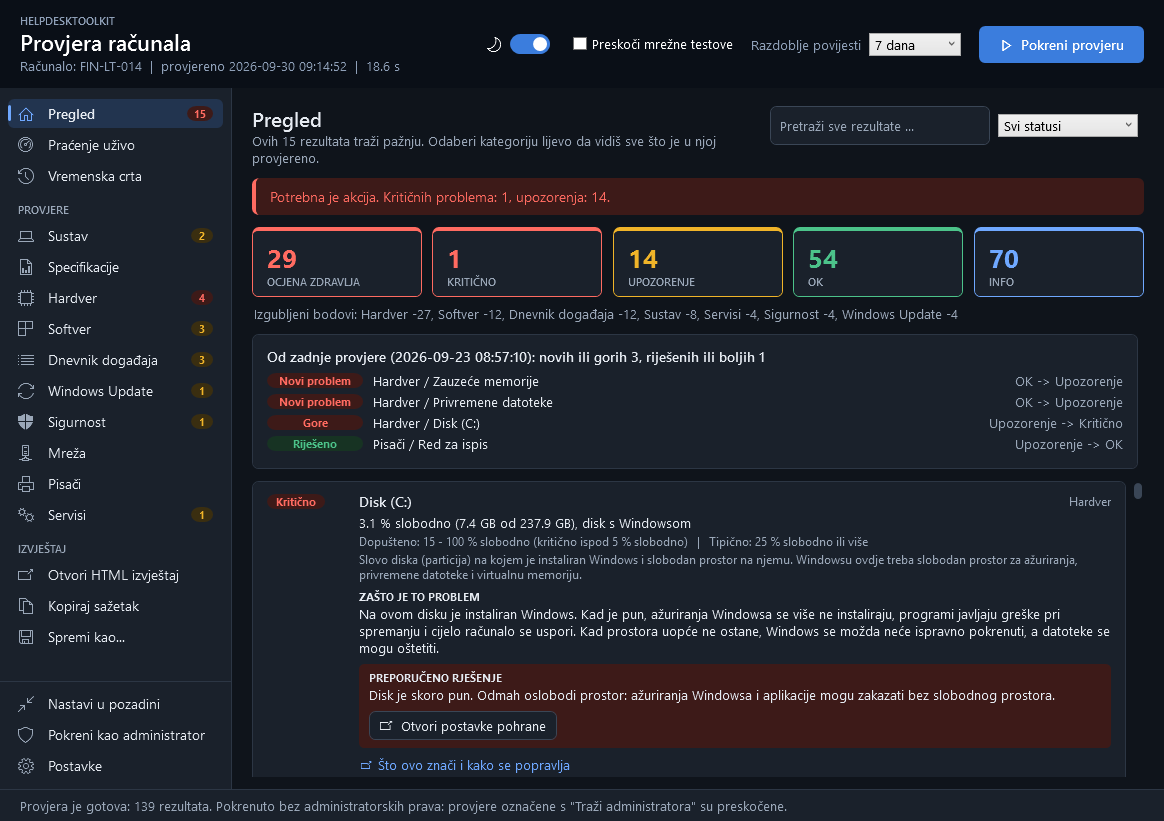
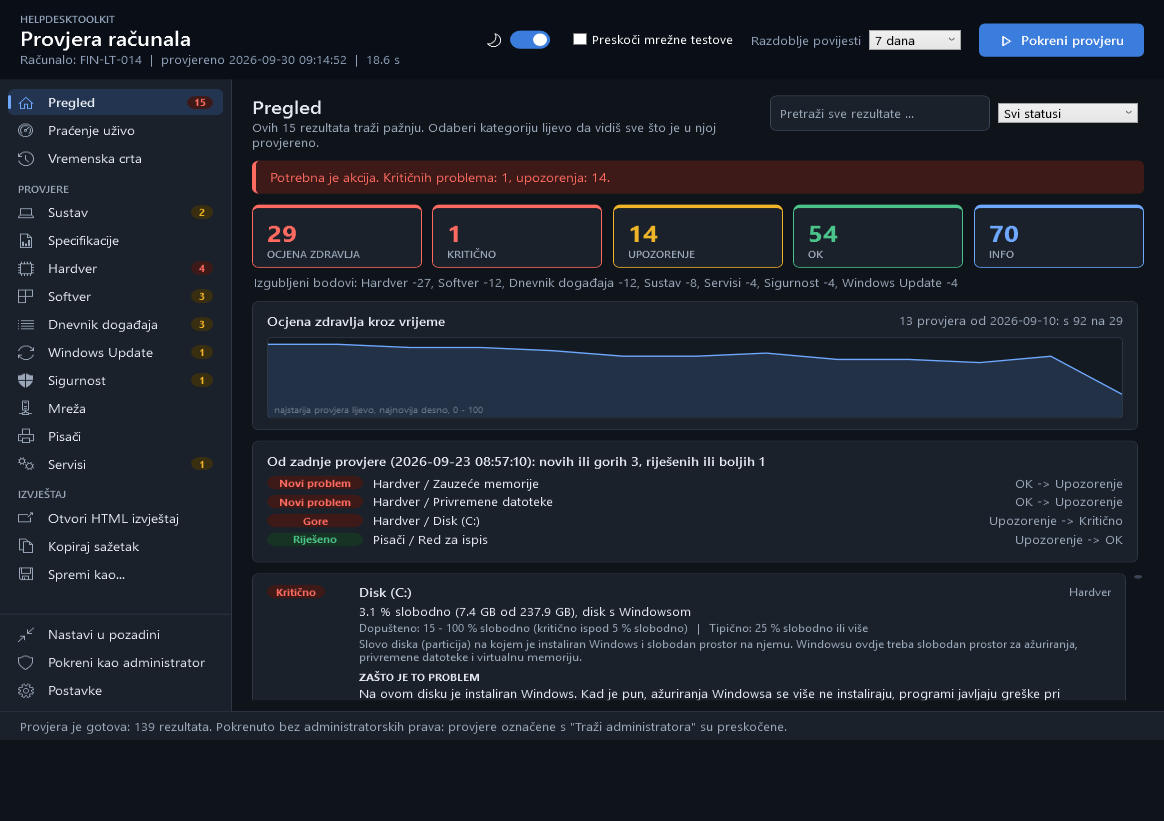
docs: describe the memory design, the score over time, the log and the leftover entries; renew the screenshots

diff --git a/README.hr.md b/README.hr.md
@@ -30,7 +30,7 @@ engleskom, pa su i nazivi u ovom dokumentu navedeni onako kako pišu na englesko
 | System | Ime računala, verzija i build Windowsa, ima li ta verzija još Microsoftovu podršku, datum instalacije, proizvođač i model, domena ili radna grupa, prijavljeni korisnik, vremenska zona, uptime, indeks stabilnosti, aktivacija Windowsa, programi koji se pokreću sa sustavom, zakazani zadaci koji nisu dio Windowsa, plan napajanja, Fast Startup, trajanje zadnjeg pokretanja\*, veličina korisničkih profila\*, spremnost za Windows 11 (na Windowsu 10, sa svakim zahtjevom posebno), zadnji rezultat System File Checkera, što je Windows okrivio za sporo pokretanje\* |
 | Specifications | Procesor s veličinom cache memorije i stanjem virtualizacije, raspored memorije i slobodni utori, svaki memorijski modul (utor, brzina, proizvođač, kataloški broj), grafičke kartice s memorijom i datumom drivera, monitori, fizički diskovi s verzijom firmwarea, optički pogoni, audio uređaji, tipkovnice i pokazivački uređaji, matična ploča, BIOS/UEFI, serijski broj, savjet za stari BIOS, gdje se provjerava jamstvo |
 | Hardware | Opterećenje CPU-a, zauzeće RAM-a i najveći potrošači memorije, zdravlje svakog fizičkog diska, slobodan prostor po disku (disk na kojem je Windows je označen, a pun podatkovni disk dobiva drugačiji savjet nego pun disk s Windowsom), najveće mape na disku koji se puni, prostor koji se može osloboditi (privremene datoteke, Downloads, koš za smeće), datoteka hibernacije, page file, uređaji bez ispravnog drivera, nepotpisani driveri, stari driveri, napunjenost i zdravlje baterije (preostali kapacitet u odnosu na novu bateriju), detalji diska (temperatura, istrošenost, sati rada, neispravljene greške)\*, diskovi označeni za provjeru\*, privremene datoteke Windowsa\*, rezultat zadnjeg testa memorije |
-| Software | Instalirani programi s verzijama, nedavno instalirani programi, rušenja aplikacija po programu, proširenja preglednika, zadani preglednik, programi koji više ne dobivaju sigurnosna ažuriranja, programi za koje postoji novija verzija (pita se winget), Microsoft Office s kanalom ažuriranja, veličina Outlook datoteka s poštom |
+| Software | Instalirani programi s verzijama, nedavno instalirani programi, rušenja aplikacija po programu, proširenja preglednika, zadani preglednik, programi koji više ne dobivaju sigurnosna ažuriranja, programi koji su još na popisu iako im je program za deinstalaciju nestao, programi za koje postoji novija verzija (pita se winget), Microsoft Office s kanalom ažuriranja, veličina Outlook datoteka s poštom |
 | Event Log | Neočekivana gašenja, plavi ekrani, greške diska, greške hardvera (WHEA), kritični događaji i greške u System i Application logu u zadnjih N dana, najčešći izvori |
 | Windows Update | Zadnje instalirano ažuriranje, ažuriranja koja čekaju instalaciju, ažuriranja koja se nisu uspjela instalirati, čeka li se restart, jesu li ažuriranja pauzirana |
 | Security | Zaštita u stvarnom vremenu, starost definicija, zaštita od neovlaštenih izmjena, zadnje skeniranje i povijest prijetnji Microsoft Defendera, firewall profili, User Account Control, Remote Desktop, vrsta računa, članovi grupe Administrators, automatska prijava, lokalni računi i račun Guest, dijeljene mape, portovi otvoreni prema mreži i programi koji na njima slušaju, sigurnosne kopije (File History, OneDrive, System Restore), Secure Boot, TPM\*, BitLocker na svakom disku\*, neuspjele prijave\*, zaključani računi\*, točke vraćanja\*, SmartScreen, integritet memorije (Core isolation), LSA zaštita, SMB 1.0, automatsko zaključavanje zaslona, programi koji su koristili kameru, mikrofon i lokaciju, USB memorije koje su bile spojene |
@@ -104,6 +104,8 @@ povijesti) također se pamte do sljedećeg pokretanja.
 - **Health score** od 0 do 100 sažima provjeru u jedan broj: svaki rezultat Critical
   oduzima 15 bodova, a svaki Warning 4. Redak ispod pločica kaže kamo su bodovi otišli
   ("Points lost: Security -19, Software -8"), pa se broj može pročitati.
+- **Health score over time** crta ocjenu zadnjih provjera kao liniju, pa se na prvi
+  pogled vidi ide li računalu na bolje ili na gore.
 - **Since the last check** pokazuje što je novo, gore, bolje ili riješeno u odnosu na
   prethodnu provjeru istog računala. Aplikacija za to čuva zadnjih 30 izvještaja.
 - **Timeline** prikazuje što se na računalu događalo zadnjih tjedana, grupirano po
@@ -149,6 +151,10 @@ stranica, pretraga i mjesto do kojeg si listao ostaju kakvi jesu. Ponovljena pro
 traje samo nekoliko sekundi: jedino što se sporo mjeri, a sporo se i mijenja, veličine
 najvećih mapa, mjeri se ponovno svakih pola sata umjesto svaki put.
 
+Gdje provjera košta više nego što donosi, ponavlja se rjeđe: najviše svakih 30 minuta
+dok je prozor skriven pokraj sata, svakih 15 na bateriji, a svakih 60 kad vrijedi
+oboje. Sporija postavka ostaje kakva jest, a **Run check** uvijek provjerava odmah.
+
 Problem kojeg prije nije bilo najavljuje se u traci na vrhu prozora, a dok prozor nije
 u prvom planu i Windows obavijesti. Klik vodi ravno na rezultat, koji je uokviren da ga
 je lako naći. Obavijest nestaje kad je zatvoriš ili kad problema više nema.
@@ -192,8 +198,16 @@ Dvije opcije na stranici **Settings**, obje isključene na početku:
   Kad opciju isključiš ili aplikaciju deinstaliraš, prečac se uklanja.
 
 Istovremeno radi samo jedna kopija: pokretanje aplikacije dok je pokraj sata vraća
-njezin prozor umjesto da otvori drugi. Kopija u pozadini treba nekoliko stotina
-megabajta memorije, kao i otvoren prozor.
+njezin prozor umjesto da otvori drugi.
+
+Aplikacija je napravljena da može ostati otvorena, a da ne opterećuje računalo. Svaka
+provjera radi u vlastitom kratkotrajnom procesu, pa se njezina memorija vraća
+Windowsima čim završi. Otvoren prozor troši oko 200 MB (oko 250 MB dok radi Live
+monitor); skriven pokraj sata vraća ono što mu ne treba i ostaje na oko 15 do 35 MB
+radne memorije. Kako, piše pod [Memorija](#memorija).
+
+Ako nešto u prozoru pođe po zlu, prozor ostaje otvoren: greška se zapiše u `app.log`
+u mapi aplikacije (**Settings > About > Open the folder**), a statusni redak to kaže.
 
 ### Jezik i tema
 
@@ -343,6 +357,8 @@ Ostali formati:
 
 Instalacijski program nije digitalno potpisan, pa Windows SmartScreen pri prvom
 pokretanju prikaže "Windows protected your PC". Odaberi **More info** pa **Run anyway**.
+Poruka kaže samo da Windows još ne poznaje izdavača datoteke (certifikat za
+potpisivanje plaća se svake godine); o tome što datoteka radi ne govori ništa.
 Preuzetu datoteku možeš provjeriti prema `SHA256SUMS.txt` iz istog izdanja:
 
 ```powershell
@@ -575,7 +591,7 @@ GitHub Actions pokreće istu skriptu na Windows PowerShellu 5.1 i PowerShellu 7 
 
 Što aplikaciju čini brzom i gdje gledati kad nije:
 
-- Modul ima oko 190 datoteka s po jednom funkcijom. Čitaju se u jedan tekst i učitavaju
+- Modul ima oko 230 datoteka s po jednom funkcijom. Čitaju se u jedan tekst i učitavaju
   kao jedan blok, što traje trećinu vremena učitavanja jedne po jedne. S varijablom
   okruženja `HELPDESKTOOLKIT_LOAD_FILES` postavljenom na `1` opet se učitavaju datoteku
   po datoteku, pa greška navodi svoju datoteku i redak; testovi rade upravo tako.
@@ -589,6 +605,34 @@ GitHub Actions pokreće istu skriptu na Windows PowerShellu 5.1 i PowerShellu 7 
   izmjenjivati, pa osam niti nije bilo brže od jedne dok petlja nije tako napisana.
 - Live monitor traži Windowsove klase s podacima o performansama sve odjednom
   (`Get-CimInstanceBatch`): jedno mjerenje traje oko pola sekunde umjesto dvije.
+
+### Memorija
+
+Što prozor drži malim, izmjereno na razvojnom računalu s Windows PowerShellom 5.1:
+
+| | Prije | Sada |
+|---|---|---|
+| Prozor otvoren, prva provjera gotova | oko 470 MB | oko 215 MB |
+| Nakon više ponovljenih provjera, Live monitor otvoren | 500 do 650 MB | oko 250 MB |
+| Skriven pokraj sata | kao gore | 15 do 35 MB radnog skupa |
+
+- Provjera učita desetak Windowsovih modula, a PowerShell tu memoriju ne vraća dok
+  proces živi. Zato svaka provjera radi u vlastitom procesu
+  (`HelpdeskToolkit\Invoke-CheckWorker.ps1`), koji završava s provjerom. Pokreće ga
+  runspace prozora, koji retke što ih proces ispisuje pretvara u zapise o napretku i
+  čita izvještaj koji proces ostavi kao JSON (`Invoke-WindowCheck`,
+  `Receive-WindowCheck`).
+- Veličine mapa koje ponovljena provjera smije ponovno upotrijebiti čuvaju se u
+  datoteci u mapi aplikacije, jer procesa koji ih je izmjerio više nema
+  (`Get-ProcessCache`).
+- Nakon provjere, i kad se prozor sakrije, memorija koju .NET više ne koristi skuplja
+  se i vraća Windowsima (`Optimize-ProcessMemory`).
+- Skriven prozor odriče se runspacea Live monitora i veza kojima mjeri. Petlji se
+  kaže da završi, a runspace se otpušta kad završi (`Clear-WindowWorker`).
+
+`Write-AppLog` zapisuje što je pošlo po zlu u `app.log` u mapi aplikacije. Svaki timer
+prozora sam hvata svoje greške: timer čiji rukovatelj padne Windows više nikad ne
+poziva, pa bi ostao prozor koji izgleda živ, a više se ne osvježava.
 
 ### Slaganje izdanja
 

diff --git a/README.md b/README.md
@@ -27,7 +27,7 @@ problems it found and what to do about them.
 | System | Computer name, Windows version and build, whether that version is still supported by Microsoft, install date, manufacturer and model, domain or workgroup, signed-in user, time zone, uptime, stability index, Windows activation, startup programs, scheduled tasks that are not part of Windows, power plan, Fast Startup, last startup duration\*, size of the user profiles\*, Windows 11 readiness (on Windows 10, with every requirement), the last System File Checker result, what Windows blamed for a slow startup\* |
 | Specifications | Processor with cache sizes and virtualization state, memory layout and free slots, every memory module (slot, speed, manufacturer, part number), graphics adapters with memory and driver date, displays, physical drives with firmware version, optical drives, audio devices, keyboards and pointing devices, motherboard, BIOS/UEFI, serial number, advice for an old BIOS, where the warranty is looked up |
 | Hardware | CPU load, memory usage and the top memory consumers, health of every physical drive, free space per disk (the drive Windows is installed on is marked, and a full data drive gets other advice than a full Windows drive), the largest folders of a disk that is running full, space that can be freed (temporary files, Downloads, Recycle Bin), hibernation file, page file, devices without a working driver, unsigned drivers, old drivers, battery charge and battery health (capacity left compared to a new battery), drive details (temperature, wear, power-on hours, uncorrected errors)\*, drives flagged for a disk check\*, temporary files of Windows\*, result of the last memory test |
-| Software | Installed programs with versions, recently installed programs, application crashes per program, browser extensions, default browser, programs that no longer get security updates, programs with a newer version (asked from winget), Microsoft Office with its update channel, size of the Outlook mailbox files |
+| Software | Installed programs with versions, recently installed programs, application crashes per program, browser extensions, default browser, programs that no longer get security updates, programs that are still listed although their uninstaller is gone, programs with a newer version (asked from winget), Microsoft Office with its update channel, size of the Outlook mailbox files |
 | Event Log | Unexpected shutdowns, blue screens, disk errors, hardware errors (WHEA), critical events and errors in the System and Application logs for the last N days, top sources |
 | Windows Update | Last installed update, updates waiting to be installed, updates that failed to install, pending restart, paused updates |
 | Security | Microsoft Defender real-time protection, definition age, tamper protection, last scan and threat history, firewall profiles, User Account Control, Remote Desktop, account type, members of the Administrators group, automatic sign-in, local accounts and the Guest account, shared folders, ports open to the network and the programs behind them, backup (File History, OneDrive, System Restore), Secure Boot, TPM\*, BitLocker on every drive\*, failed sign-ins\*, account lockouts\*, restore points\*, SmartScreen, memory integrity (Core isolation), LSA protection, SMB 1.0, automatic screen lock, programs that used the camera, the microphone and the location, USB storage devices that have been connected |
@@ -101,6 +101,8 @@ number of days of history) are remembered for the next start as well.
 - **Health score** from 0 to 100 sums the check up in one number: every Critical
   result takes 15 points off, every Warning 4. The line below the tiles says where the
   points went ("Points lost: Security -19, Software -8"), so the number can be read.
+- **Health score over time** draws the score of the last checks as a line, so it shows
+  at a glance whether the computer is getting better or worse.
 - **Since the last check** shows what is new, worse, better or resolved compared with
   the previous check of the same computer. The application keeps the last 30 reports
   for this.
@@ -151,6 +153,11 @@ are. A repeated check takes only a few seconds: the one thing that is slow to me
 and changes slowly, the sizes of the largest folders, is measured again every half
 hour instead of every time.
 
+Where a check costs more than it brings, it is repeated less often: every 30 minutes
+at most while the window is hidden next to the clock, every 15 on battery, and every 60
+when both apply. A slower setting stays as it is, and **Run check** always checks at
+once.
+
 A problem that was not there before is announced in a bar at the top of the window, and
 with a Windows notification while the window is not in front. A click leads straight to
 the result, which is framed so it is easy to find. A notice disappears when it is
@@ -198,8 +205,17 @@ Two options on the **Settings** page, both off at first:
   shortcut.
 
 Only one copy runs at a time: starting the application while it sits next to the clock
-brings its window back instead of opening a second one. A copy in the background needs
-a few hundred megabytes of memory, like the open window.
+brings its window back instead of opening a second one.
+
+The application is built to stay open without weighing on the computer. Every check
+runs in a short-lived process of its own, so its memory goes back to Windows when it
+is done. The open window uses about 200 MB (about 250 MB with the Live monitor
+running); hidden next to the clock it hands back what it does not need and stays at
+about 15 to 35 MB of working memory. See [Memory](#memory) for how.
+
+Should something go wrong inside the window, it stays open: the error is written to
+`app.log` in the folder of the application (**Settings > About > Open the folder**),
+and the status line says so.
 
 ### Language and theme
 
@@ -349,8 +365,10 @@ Other formats:
 3. Start **HelpdeskToolkit** from the Start menu.
 
 The installer is not digitally signed, so Windows SmartScreen shows "Windows protected
-your PC" the first time. Choose **More info** and then **Run anyway**. You can verify
-the download against `SHA256SUMS.txt` from the same release:
+your PC" the first time. Choose **More info** and then **Run anyway**. The message
+only says that Windows does not know the publisher of the file yet (a certificate for
+signing costs money every year); it says nothing about what the file does. You can
+verify the download against `SHA256SUMS.txt` from the same release:
 
 ```powershell
 Get-FileHash .\HelpdeskToolkit-Setup-<version>.exe -Algorithm SHA256
@@ -585,7 +603,7 @@ GitHub Actions runs the same script on Windows PowerShell 5.1 and PowerShell 7 f
 
 What keeps the application quick, and where to look when it is not:
 
-- The module has about 190 files with one function each. They are read into one text
+- The module has about 230 files with one function each. They are read into one text
   and loaded as one block, which takes a third of the time of loading them one by
   one. With the environment variable `HELPDESKTOOLKIT_LOAD_FILES` set to `1` they are
   loaded file by file again, so an error names its file and line; the tests do that.
@@ -599,6 +617,35 @@ What keeps the application quick, and where to look when it is not:
   eight threads no faster than one until the loop was written that way.
 - The Live monitor asks for the performance classes of Windows all at once
   (`Get-CimInstanceBatch`): one measurement takes about half a second instead of two.
+
+### Memory
+
+What keeps the window small, measured on the development computer with Windows
+PowerShell 5.1:
+
+| | Before | Now |
+|---|---|---|
+| Window open, first check done | about 470 MB | about 215 MB |
+| After several repeated checks, Live monitor open | 500 to 650 MB | about 250 MB |
+| Hidden next to the clock | as above | 15 to 35 MB working set |
+
+- A check loads a dozen Windows modules, and PowerShell never returns that memory
+  while the process lives. Every check therefore runs in a process of its own
+  (`HelpdeskToolkit\Invoke-CheckWorker.ps1`), which ends with the check. A runspace of
+  the window starts it, turns the lines it writes into progress records and reads the
+  report it leaves as JSON (`Invoke-WindowCheck`, `Receive-WindowCheck`).
+- The folder sizes a repeated check may reuse are kept in a file in the folder of the
+  application, because the process that measured them is gone (`Get-ProcessCache`).
+- After a check, and when the window is hidden, the memory .NET no longer uses is
+  collected and handed back to Windows (`Optimize-ProcessMemory`).
+- A hidden window gives up the runspace of the Live monitor and the connections it
+  measures with. The loop is told to end, and the runspace is released once it has
+  (`Clear-WindowWorker`).
+
+`Write-AppLog` writes what went wrong to `app.log` in the folder of the application.
+Every timer of the window catches its own errors: a timer whose handler fails is
+never called again by Windows, which would leave a window that looks alive and no
+longer updates.
 
 ### Building a release
 

diff --git a/CHANGELOG.md b/CHANGELOG.md
@@ -42,11 +42,23 @@ The first public version. It will be released as 1.0.0.
     System File Checker result, and what Windows blamed for a slow startup.
   - Hardware: the result of the last memory test.
   - Software: programs that no longer get security updates, programs for which
-    winget knows a newer version, Microsoft Office with its update channel, and the
-    size of the Outlook mailbox files.
+    winget knows a newer version, Microsoft Office with its update channel, the
+    size of the Outlook mailbox files, and programs that are still listed as
+    installed although their uninstaller is gone.
   - Specifications: advice for an old BIOS, and where the warranty is looked up.
 - `Get-ChangeTimeline`: the installations, updates, crashes and failures of the last
   weeks on one time line, from what Windows records for Reliability Monitor.
+
+### Memory and reliability
+
+- The Overview draws the health score of the last checks as a line.
+- Every check runs in a short-lived process of its own, so its memory goes back to
+  Windows when it is done. The open window stays at about 200 to 250 MB instead of
+  growing to 500 MB and more; hidden next to the clock it uses 15 to 35 MB.
+- The automatic check is repeated less often while the window is hidden (every 30
+  minutes at most) or the computer runs on battery (15, and 60 when both apply).
+- An unexpected error no longer ends the application without a trace: it is written
+  to `app.log` in the folder of the application and the window stays open.
 
 ### The window
 
